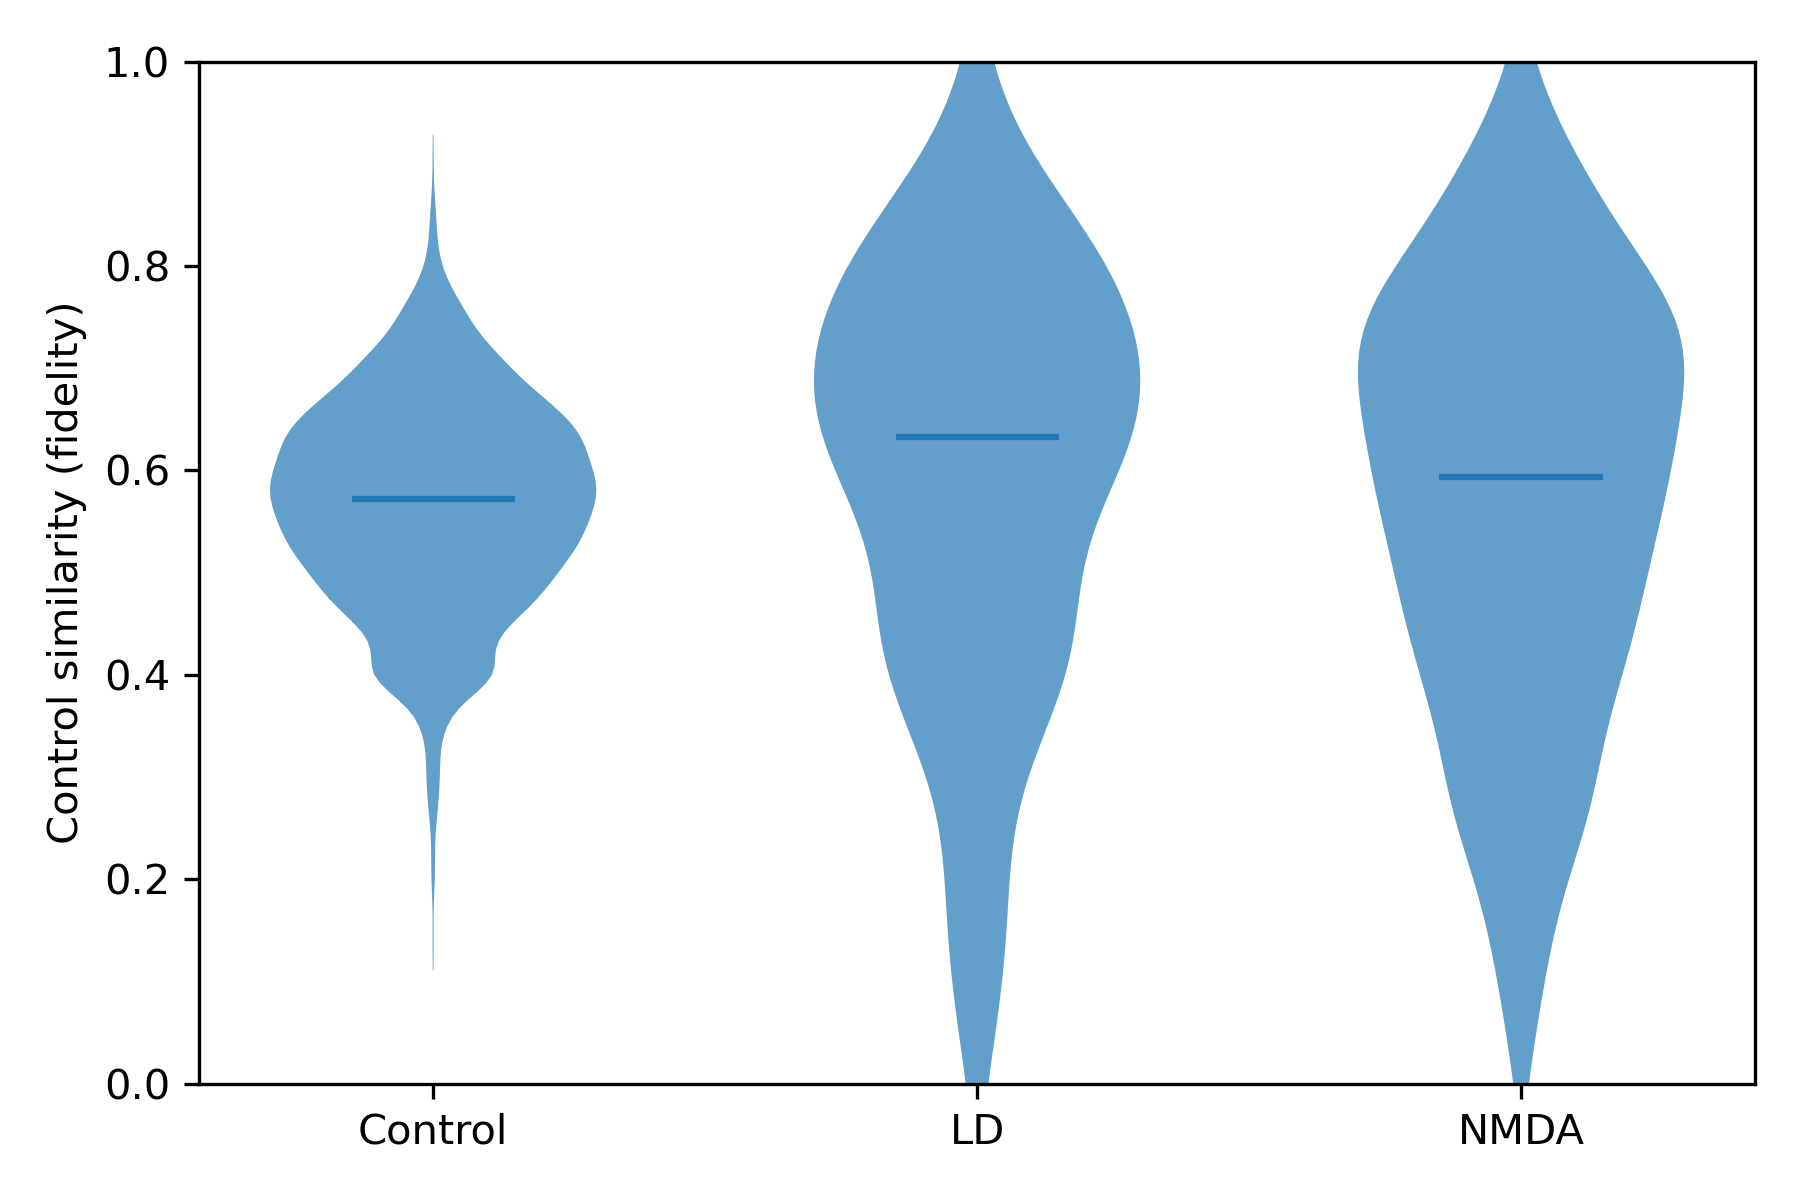
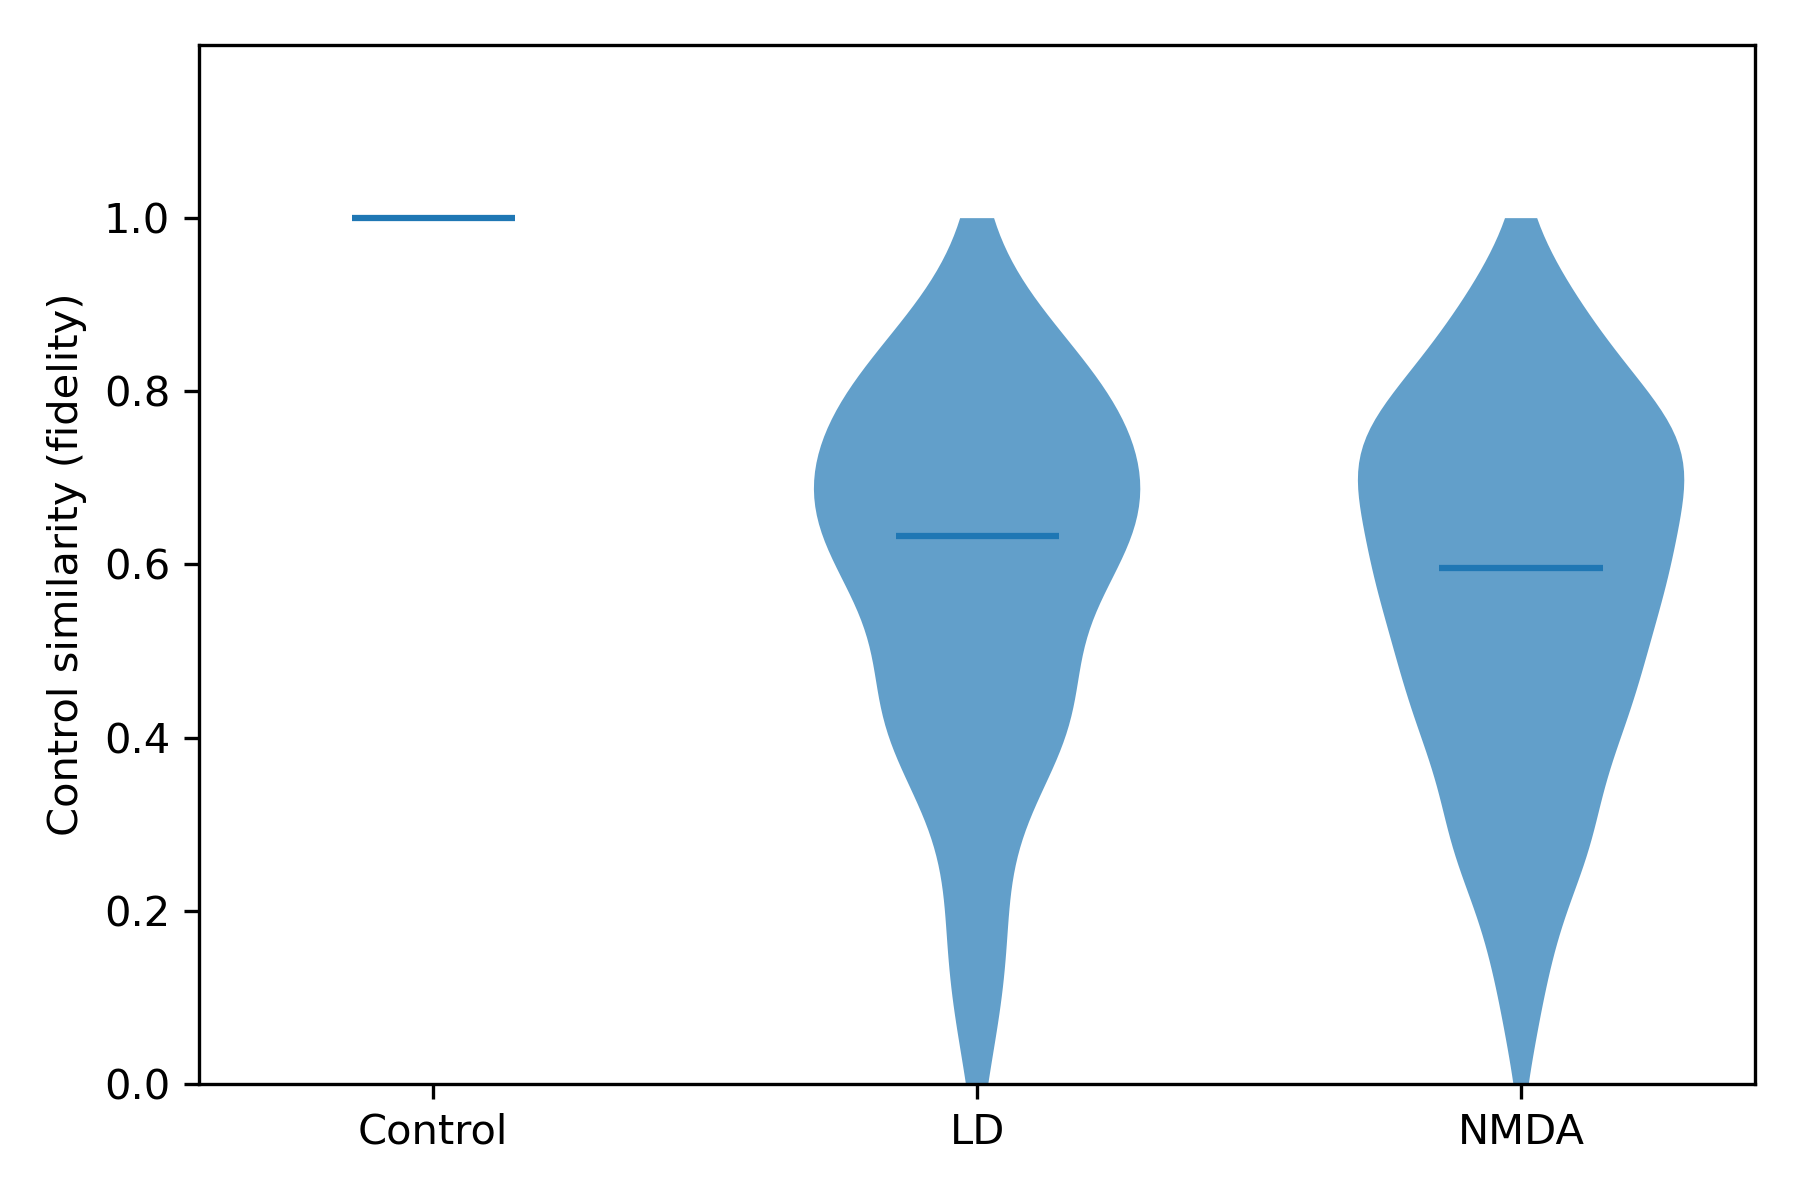
model optimal control is 1

diff --git a/src/split_classifier.py b/src/split_classifier.py
@@ -1,8 +1,6 @@
 #!/usr/bin/env python3
-# split_classifier.py
-# FULL FIX — calculations untouched
-# UMAP: one plot with Control/LD/NMDA, legend inside
-# Violin: one violin per group, shared X/Y axes
+# split_classifier_fixed_full.py
+# Full fix: correct Control baseline, safe violins, SVM defaults intact
 
 import argparse
 import scanpy as sc
@@ -37,16 +35,20 @@ def run_control_similarity(adata, condition, hvg_n):
     X_train = np.nan_to_num(X_train)
     X_test  = np.nan_to_num(X_test)
 
-    model = Pipeline([("scaler", StandardScaler()),
-                      ("ocsvm", OneClassSVM(kernel="rbf", nu=0.05, gamma="scale"))])
+    model = Pipeline([
+        ("scaler", StandardScaler()),
+        ("ocsvm", OneClassSVM(kernel="rbf", nu=0.01, gamma="scale"))
+    ])
     model.fit(X_train)
 
     f_train = model.decision_function(X_train)
     f_test  = model.decision_function(X_test)
 
+    # Scale both together to [0,1]
     all_f = np.concatenate([f_train, f_test])
     f_scaled = (all_f - all_f.min()) / (all_f.max() - all_f.min() + 1e-9)
 
+    # Assign scaled scores to train/test adata (needed for downstream reference)
     train_adata.obs[f"fidelity_{condition}"] = f_scaled[:len(f_train)]
     test_adata.obs[f"fidelity_{condition}"]  = f_scaled[len(f_train):]
 
@@ -71,35 +73,31 @@ def main():
     ctrl_ld, ld = run_control_similarity(adata, "LD", args.hvg_genes)
     ctrl_nmda, nmda = run_control_similarity(adata, "NMDA", args.hvg_genes)
 
-    # Assign fidelities to adata
+    # --- Assign to adata for record, keep original SVM scores ---
     adata.obs["fidelity_LD"] = np.nan
     adata.obs["fidelity_NMDA"] = np.nan
-
-    adata.obs.loc[ctrl_ld.obs_names, "fidelity_LD"] = ctrl_ld.obs["fidelity_LD"]
     adata.obs.loc[ld.obs_names, "fidelity_LD"] = ld.obs["fidelity_LD"]
-
-    adata.obs.loc[ctrl_nmda.obs_names, "fidelity_NMDA"] = ctrl_nmda.obs["fidelity_NMDA"]
     adata.obs.loc[nmda.obs_names, "fidelity_NMDA"] = nmda.obs["fidelity_NMDA"]
 
-    # === UMAP: one plot for Control/LD/NMDA, legend inside ===
+    # --- UMAP ---
     if "X_umap" not in adata.obsm:
         sc.pp.neighbors(adata)
         sc.tl.umap(adata)
-
     sc.pl.umap(adata, color="renamed_samples", show=False)
-    plt.legend(loc="best", frameon=False)  # legend inside plot
+    plt.legend(loc="best", frameon=False)
     plt.savefig(f"umap_all_conditions{suffix}.png", dpi=300)
     plt.close()
 
-    # === VIOLIN: one violin per group ===
+    # --- Violin plot ---
     groups = ["Control", "LD", "NMDA"]
     x = np.arange(len(groups))
     fig, ax = plt.subplots(figsize=(6,4))
 
+    # Control baseline = 1, LD/NMDA = clipped SVM scores
     data = [
-        adata.obs.loc[adata.obs["renamed_samples"] == "Control", "fidelity_LD"].values,  # Control
-        adata.obs.loc[adata.obs["renamed_samples"] == "LD", "fidelity_LD"].values,       # LD
-        adata.obs.loc[adata.obs["renamed_samples"] == "NMDA", "fidelity_NMDA"].values    # NMDA
+        np.ones(adata.obs.loc[adata.obs["renamed_samples"] == "Control"].shape[0]),  # baseline 1
+        np.clip(adata.obs.loc[adata.obs["renamed_samples"] == "LD", "fidelity_LD"].values, 0, 1),
+        np.clip(adata.obs.loc[adata.obs["renamed_samples"] == "NMDA", "fidelity_NMDA"].values, 0, 1)
     ]
 
     vp = ax.violinplot(data, positions=x, widths=0.6, showmeans=False, showextrema=False, showmedians=True)
@@ -109,7 +107,8 @@ def main():
     ax.set_xticks(x)
     ax.set_xticklabels(groups)
     ax.set_ylabel("Control similarity (fidelity)")
-    ax.set_ylim(0, 1)
+    ax.set_ylim(0, 1.2)
+    ax.set_yticks([0.0, 0.2, 0.4, 0.6,0.8,1.0])
 
     plt.tight_layout()
     plt.savefig(f"violin_fidelity_all_groups{suffix}.png", dpi=300)

diff --git a/README.md b/README.md
@@ -855,45 +855,35 @@ Geometrically, you can think of this as learning a **boundary around Control cel
 
 ### RGC example: Fidelity score  
 
-![](umap_all_conditions_RGC_split.png?v=1)
+![](umap_all_conditions_RGC_split.png?v=2) 
 
-![](violin_fidelity_all_groups_RGC_split.png?v=1)
+![](violin_fidelity_all_groups_RGC_split.png?v=2)
 
 ## Comments on fidelity scores
 
 - **Control cells:**  
-  - Ideally should be near 1, but due to natural variation, many fall around ~0.6.  
+  - Ideally should be near 1
   - This explains why a **large fraction of Control cells is predicted as non-Control** in the confusion matrix — the SVM boundary is conservative.  
 
 - **LD / NMDA cells:**  
-  - Their **mean fidelity is also around 0.6**, but their distribution is **shifted lower** and broader than Control.  
-  - A smaller fraction still overlaps with Control, explaining why some LD/NMDA cells are predicted as Control-like.  
-
-### Key Conceptual Takeaway
-
-- **Fidelity scores reflect relative deviation from Control**, not absolute 0–1 perfection.  
-- Even if the **mean scores of LD/NMDA are similar to Control (~0.6)**, their **distribution differs**, producing the patterns we see in the confusion matrices:  
-
-  - **Control cells:** moderate spread → some false negatives  
-  - **LD/NMDA:** more cells below threshold → most correctly detected as deviating  
-
-- This reinforces the **graded nature of the SVM output** — not binary, but a spectrum of “Control-likeness.”
-
-
+  - Fidelity scores around **0.6** reflect **partial similarity to Control**.
+  - Values less than 1 indicate that these cells **deviate from Control**, but the score is relative:
+  - The SVM decision function measures how much a cell’s expression pattern overlaps with the Control distribution.
+  - Lower than 1 simply means **the perturbation has altered expression**, while still sharing some Control-like features.
 
 ## SVM classifier Rod example: 
 
 
-![](umap_all_conditions_Rod_split.png?v=1) 
+![](umap_all_conditions_Rod_split.png?v=2) 
 
-![](violin_fidelity_all_groups_Rod_split.png?v=1)
+![](violin_fidelity_all_groups_Rod_split.png?v=2)
 
 ## SVM classifier for all samples (ADJUSTED TO REDUCE MEM)
 
 
-![](violin_fidelity_all_groups_zebrafish_split.png?v=1)
+![](violin_fidelity_all_groups_zebrafish_split.png?v=2)
 
-![](umap_all_conditions_zebrafish_split.png?v=1)
+![](umap_all_conditions_zebrafish_split.png?v=2)
 
 
 ### How this script is different:
